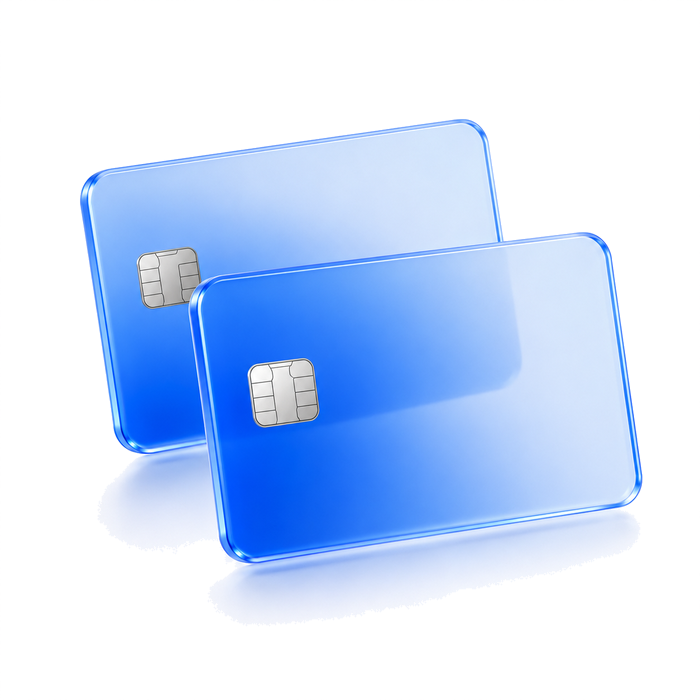
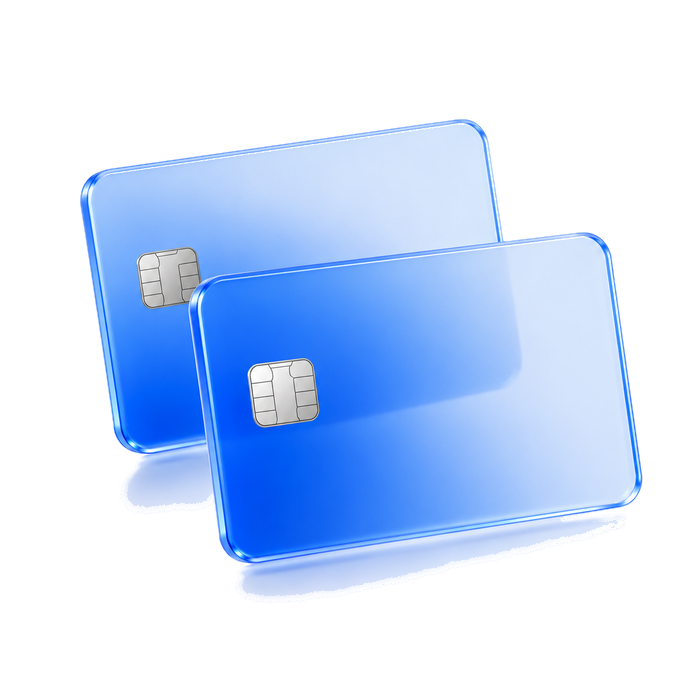
항목 상세를 휴대폰 목업 + 떠 있는 카드로 · 기능 카드 그라데이션 · 대제목 글씨 또렷하게
- 항목 상세 패널: 흰 휴대폰 목업(윗부분만) 안에 내용, 그 위로 신용카드가 떠 있게
- 기능 카드 배경을 좌상단 흰색 → 우하단 옅은 하늘색 그라데이션으로
- 3D 이미지 후광까지 잘라내 배경 없앰
- 대제목 흰 글씨에 그림자를 넣어 사진 위에서 또렷하게

Changed region(s): [[0.33, 0.72, 0.9, 0.87], [0.15, 0.69, 0.33, 0.75], [0.18, 0.66, 0.21, 0.69]]

diff --git a/index.html b/index.html
@@ -1167,9 +1167,33 @@
       background-attachment:fixed;
       background-image:url('img/hero-bg6.jpg');}
   }
-  .bandart .h-band{color:#FFFFFF;}
-  .bandart .h-band .soft{color:rgba(255,255,255,.88);}
-  .bandart .h-band .hl{color:var(--primary-300);}
+  .bandart .h-band{color:#FFFFFF; text-shadow:0 2px 20px rgba(4,12,30,.55);}
+  .bandart .h-band .soft{color:#FFFFFF;}
+  .bandart .h-band .hl{color:#B9D6FF;}
+
+  /* ===== 항목 상세 — 흰 휴대폰 목업(윗부분만) 안에 내용 · 그 위에 뜬 신용카드 ===== */
+  #itemsec .itpanel{display:block !important; background:none; border:none; padding:0;
+    position:relative; overflow:hidden; box-shadow:none;}
+  #itemsec .itphone{position:relative; width:min(292px, 84%); margin:74px auto -30px;
+    background:#FFFFFF; border:1px solid #E9ECF1; border-bottom:none;
+    border-radius:34px 34px 0 0; padding:74px 20px 30px;
+    box-shadow:0 18px 46px rgba(15,23,42,.13), 0 3px 12px rgba(15,23,42,.06);}
+  /* 휴대폰 위로 떠 있는 카드 */
+  #itemsec .itcard{position:absolute; top:-52px; left:50%; width:118px; height:auto;
+    transform:translateX(-50%) rotate(-9deg); z-index:2;
+    filter:drop-shadow(0 16px 26px rgba(8,26,66,.34));}
+  #itemsec .itphone .itl{display:flex; flex-direction:column; align-items:stretch;
+    text-align:left; padding:0; width:100%;}
+  #itemsec .itphone .itl h3{margin:0 0 12px; text-align:center;}
+  #itemsec .itphone .itl .btn{width:100%; min-width:0; margin-top:16px; align-self:stretch;}
+  @media(min-width:1000px){
+    #itemsec .itphone{width:300px; margin:86px auto -34px; padding:84px 22px 34px;}
+    #itemsec .itcard{top:-58px; width:132px;}
+  }
+
+  /* 기능 카드 — 좌상단 흰색에서 우하단 옅은 하늘색으로 */
+  #featsec .rz{background:linear-gradient(135deg,
+    #FFFFFF 0%, #FFFFFF 38%, #F1F6FD 68%, var(--primary-150) 100%);}
 
   /* 클릭되지 않는 장식 화살표는 뺀다 */
   .whygrid .uc .uarw{display:none;}
@@ -1251,13 +1275,13 @@
       <div class="itarw" aria-hidden="true"><svg viewBox="0 0 22 22" aria-hidden="true"><path d="M4 11h13M11 4l7 7-7 7" stroke="currentColor" stroke-width="3.2" fill="none" stroke-linecap="round" stroke-linejoin="round"/></svg></div>
 
       <div class="itpanel">
-        <div class="itin">
-          <div class="itr-card" aria-hidden="true"></div>
-        </div>
-        <div class="itl">
-          <h3 id="itp-h"></h3>
-          <div class="itr" id="itp-docs"></div>
-          <a class="btn btn-primary" id="itgo" href="화면/10_1_유형선택.html"><img class="btn-logo" src="img/logo3-white.png" alt=""><span id="itgo-t">즉시 결제하기</span></a>
+        <div class="itphone">
+          <img class="itcard" src="img/card-face-v.png" alt="" aria-hidden="true">
+          <div class="itl">
+            <h3 id="itp-h"></h3>
+            <div class="itr" id="itp-docs"></div>
+            <a class="btn btn-primary" id="itgo" href="화면/10_1_유형선택.html"><img class="btn-logo" src="img/logo3-white.png" alt=""><span id="itgo-t">즉시 결제하기</span></a>
+          </div>
         </div>
       </div>
     </div>
@@ -1377,7 +1401,7 @@
             <li>금액을 여러 카드로 나누기</li>
             <li>무이자 할부 혜택 그대로</li>
           </ul>
-          <img class="fig" src="img/feat1-t.png?v=1" alt="">
+          <img class="fig" src="img/feat1-t.png?v=3" alt="">
         </div>
         <div class="plus" aria-hidden="true">+</div>
         <div class="rz alt">
@@ -1390,7 +1414,7 @@
             <li>매달 같은 날 정기결제</li>
             <li>급여일 · 납부일에 맞춰 예약</li>
           </ul>
-          <img class="fig" src="img/feat2-t.png?v=1" alt="">
+          <img class="fig" src="img/feat2-t.png?v=3" alt="">
         </div>
         <div class="plus" aria-hidden="true">+</div>
         <div class="rz">
@@ -1403,7 +1427,7 @@
             <li>주말 · 공휴일 정상 송금</li>
             <li>서류 검토도 연중무휴</li>
           </ul>
-          <img class="fig" src="img/feat3-t.png?v=1" alt="">
+          <img class="fig" src="img/feat3-t.png?v=3" alt="">
         </div>
       </div>
     </div>
